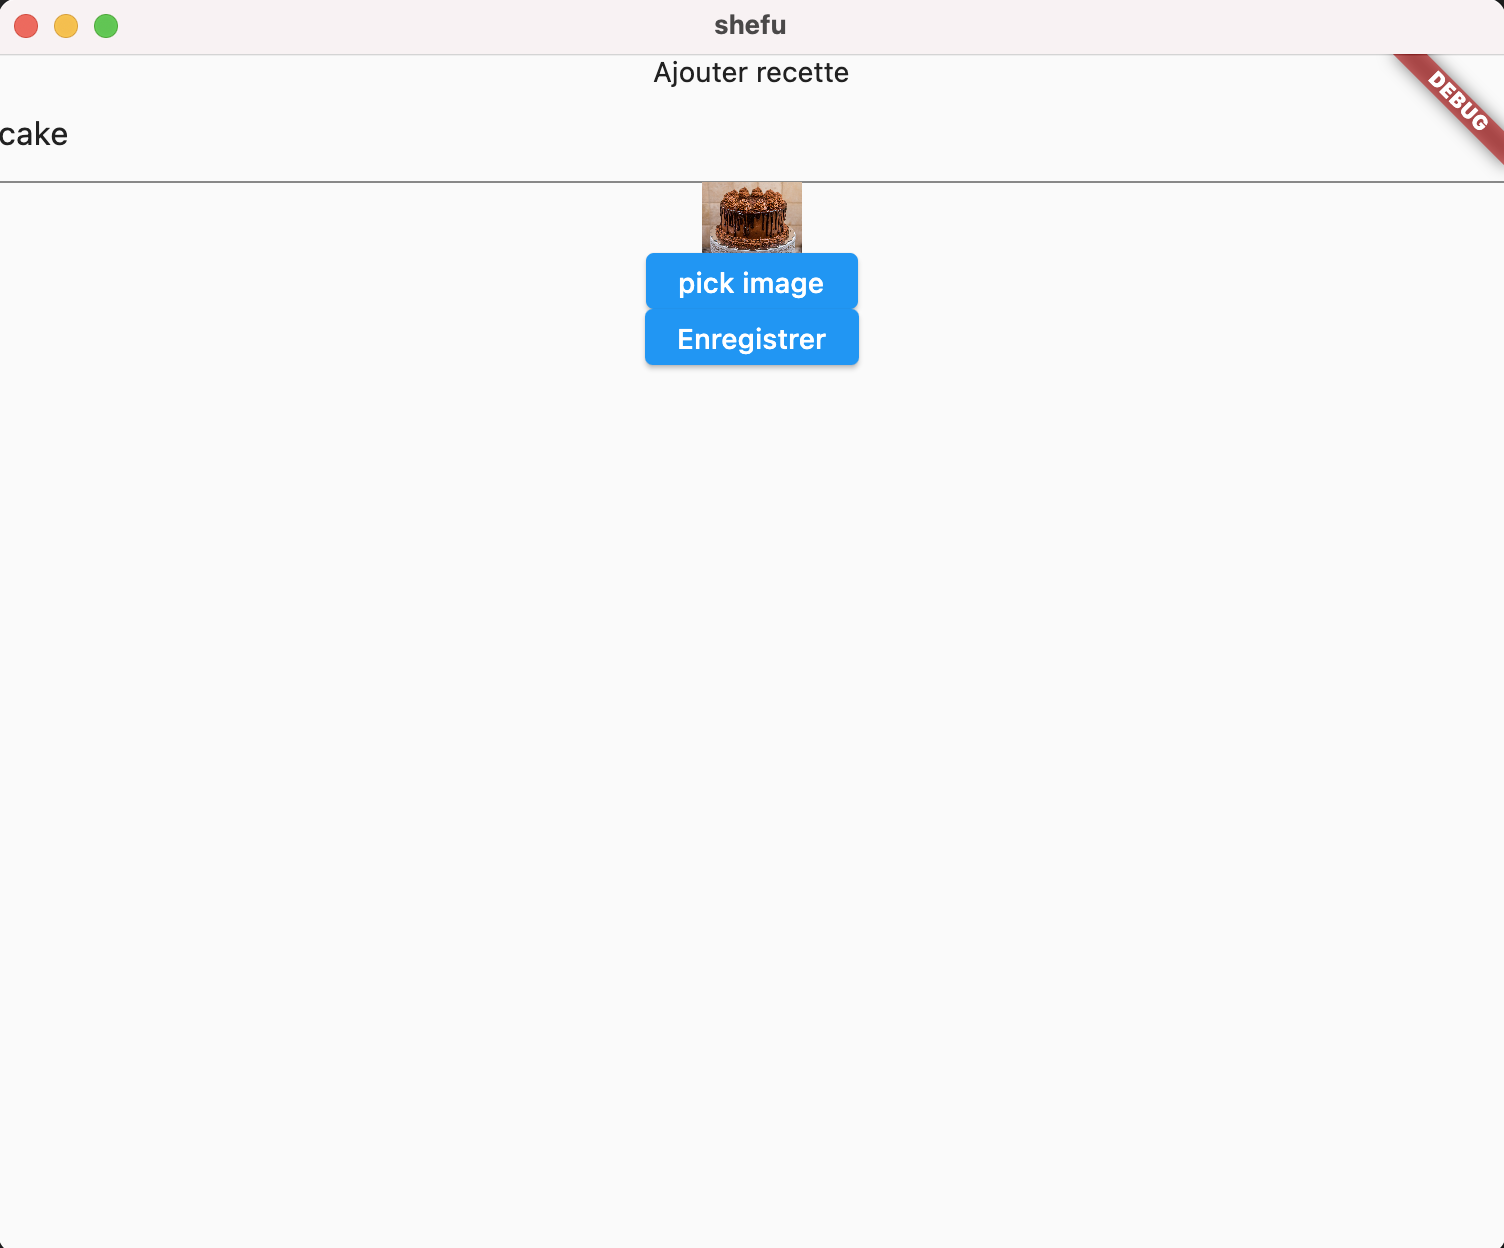
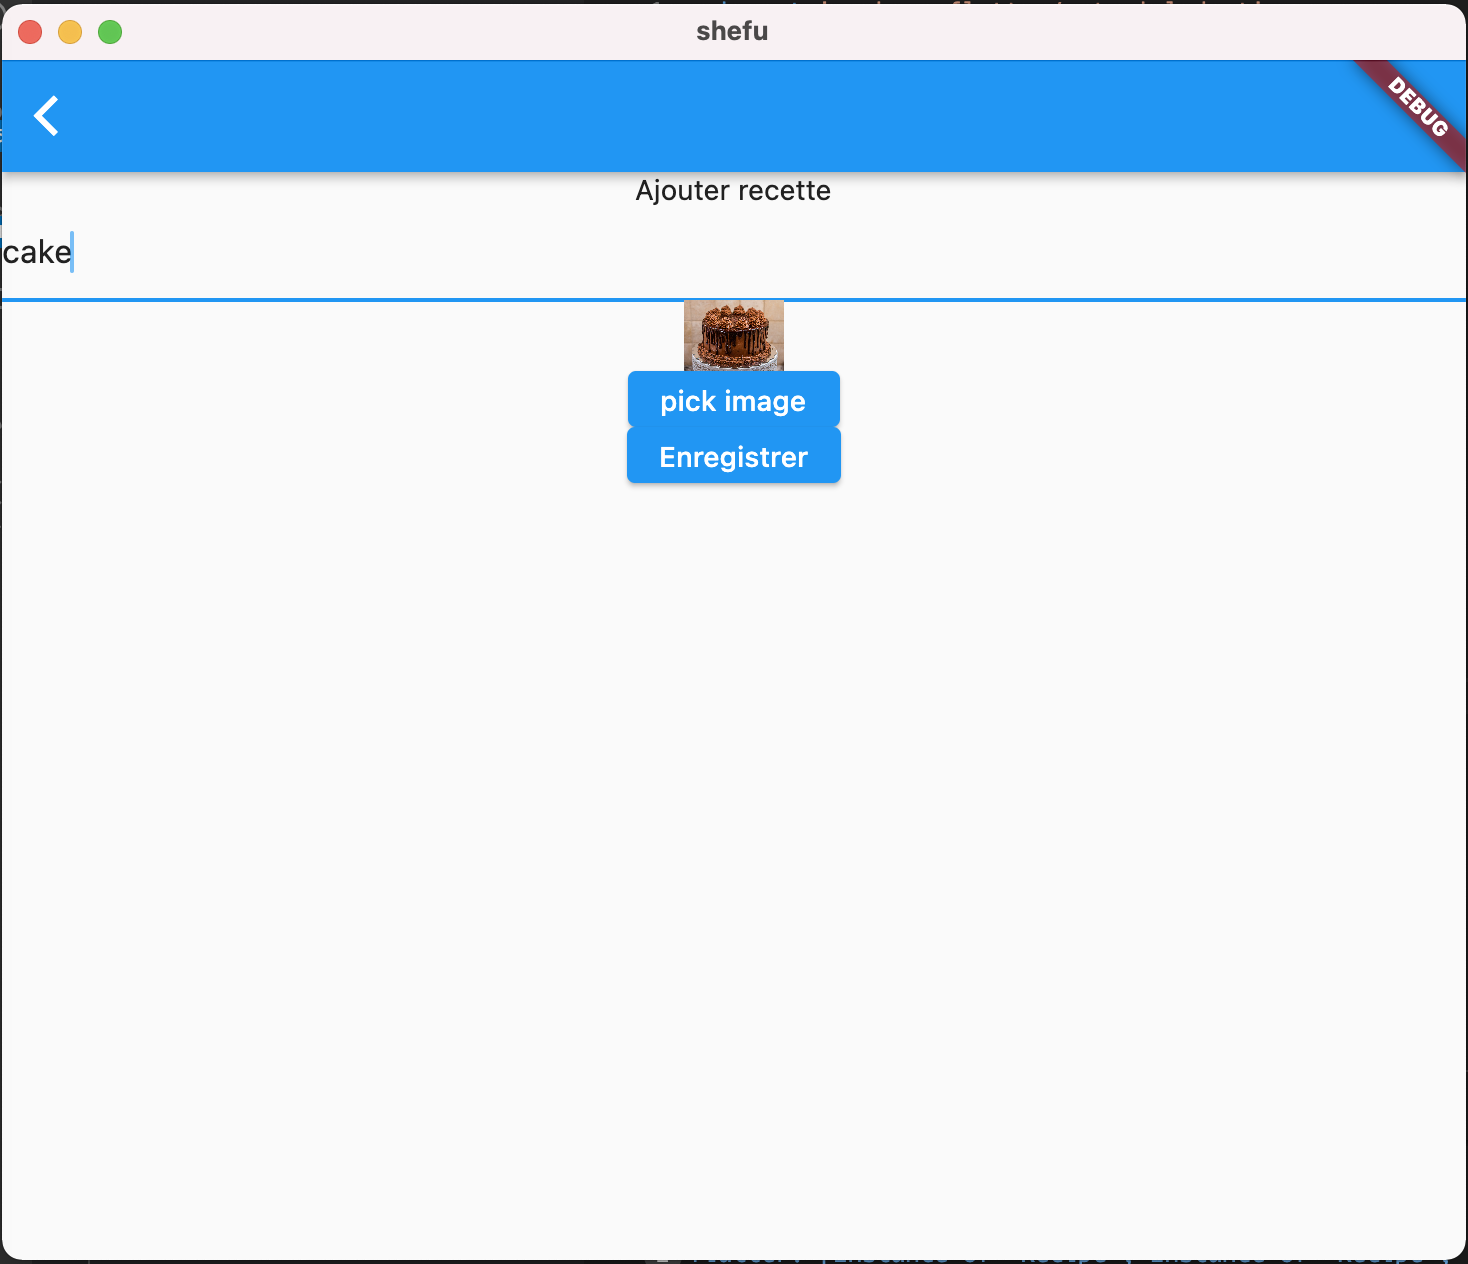
added search and display page; updated captures

Changed region(s): [[0.0, 0.0, 1.0, 0.4062], [0.0, 0.9688, 1.0, 1.0]]

diff --git a/lib/screens/home.dart b/lib/screens/home.dart
@@ -1,8 +1,6 @@
 import 'package:flutter/material.dart';
 import 'package:get/get.dart';
 import 'package:hive/hive.dart';
-import 'package:hive/hive.dart';
-import 'package:hive_flutter/hive_flutter.dart';
 import 'package:hive_flutter/hive_flutter.dart';
 import 'package:shefu/controller.dart';
 import 'package:shefu/screens/add_recipe.dart';
@@ -47,7 +45,6 @@ class Home extends StatelessWidget {
                     padding: EdgeInsets.only(right: 20.0),
                     child: GestureDetector(
                       onTap: () {
-                        //TODO  c.database.cleanUp();
                         Hive.box<Recipe>('recipes').clear();
                         c.update();
                       },
@@ -65,28 +62,48 @@ class Home extends StatelessWidget {
                     )),
               ],
             ),
-            body: FutureBuilder(
-                future: Hive.openBox<Recipe>('recipes'),
-                builder: (context, snapshot) {
-                  if (snapshot.connectionState == ConnectionState.done) {
-                    return ValueListenableBuilder(
-                      valueListenable: Hive.box<Recipe>('recipes').listenable(),
-                      builder: (context, Box<Recipe> box, _) {
-                        if (box.values.isEmpty) {
-                          return Text('data is empty');
-                        } else {
-                          List<Recipe> recipes = box.values.toList();
-                          print(recipes);
+            body: SingleChildScrollView(
+              child: Column(
+                children: [
+                  TextFormField(
+                    decoration: InputDecoration(hintText: "Recherche"),
+                    onChanged: (String value) {
+                      c.filter_string = value;
+                      c.update();
+                    },
+                  ),
+                  FutureBuilder(
+                      future: Hive.openBox<Recipe>('recipes'),
+                      builder: (context, snapshot) {
+                        if (snapshot.connectionState == ConnectionState.done) {
+                          return ValueListenableBuilder(
+                            valueListenable:
+                                Hive.box<Recipe>('recipes').listenable(),
+                            builder: (context, Box<Recipe> box, _) {
+                              if (box.values.isEmpty) {
+                                return Text('data is empty');
+                              } else {
+                                List<Recipe> recipes =
+                                    box.values.toList().where((e) {
+                                  return e.title.contains(c.filter_string);
+                                }).toList();
+                                //List<Recipe> recipes = box.values.toList();
+                                print(recipes);
 
-                          return RecipesGridView(recipes: recipes);
+                                return SizedBox(
+                                    height: 700,
+                                    child: RecipesGridView(recipes: recipes));
+                              }
+                              //return Container();
+                            },
+                          );
+                        } else {
+                          return Container();
                         }
-                        //return Container();
-                      },
-                    );
-                  } else {
-                    return Container();
-                  }
-                })));
+                      }),
+                ],
+              ),
+            )));
 
     // Center(
     //     child: ElevatedButton(

diff --git a/lib/screens/display_recipe.dart b/lib/screens/display_recipe.dart
@@ -1,18 +1,36 @@
+import 'dart:io';
+
 import 'package:flutter/material.dart';
 import 'package:get/get.dart';
+import 'package:shefu/models/recipes.dart';
 
 class DisplayRecipe extends StatelessWidget {
-  const DisplayRecipe({Key? key}) : super(key: key);
+  final Recipe recipe;
+
+  const DisplayRecipe({Key? key, required this.recipe}) : super(key: key);
 
   @override
   Widget build(BuildContext context) {
     return Scaffold(
-      body: Column(
-        children: [
-          ElevatedButton(child: Text('back'.tr), onPressed: () => Get.back()),
-          Text('detail'),
-        ],
-      ),
-    );
+        appBar: AppBar(
+          title: Text(recipe.title),
+        ),
+        body: SafeArea(
+          child: Column(
+            children: [
+              SizedBox(
+                  height: 250,
+                  width: double.infinity,
+                  child: Image.file(
+                    File(recipe.image_path),
+                    fit: BoxFit.scaleDown,
+                  )),
+              const SizedBox(
+                height: 5,
+              ),
+              Text('source: ${recipe.source}'),
+            ],
+          ),
+        ));
   }
 }

diff --git a/lib/widgets/recipe_card.dart b/lib/widgets/recipe_card.dart
@@ -12,16 +12,17 @@ class RecipeCard extends StatelessWidget {
   @override
   Widget build(BuildContext context) {
     return GestureDetector(
-      onTap: () => Get.to(() => DisplayRecipe()),
+      onTap: () => Get.to(() => DisplayRecipe(recipe: recipe)),
       child: Card(
         child: Row(
           crossAxisAlignment: CrossAxisAlignment.start,
           children: [
             ClipRRect(
               child: Image.file(
-                File(recipe.image_path!),
-                fit: BoxFit.scaleDown,
-                height: 50,
+                File(recipe.image_path),
+                fit: BoxFit.fitWidth,
+                width: 120,
+                // height: 50,
               ),
             ),
             const SizedBox(

diff --git a/lib/screens/add_recipe.dart b/lib/screens/add_recipe.dart
@@ -25,6 +25,7 @@ class AddRecipe extends StatelessWidget {
     return GetBuilder<Controller>(
         init: c,
         builder: (value) => Scaffold(
+              appBar: AppBar(),
               body: Column(
                 children: [
                   Center(child: Text('add recipe'.tr)),

diff --git a/lib/controller.dart b/lib/controller.dart
@@ -2,4 +2,5 @@ import 'package:get/get.dart';
 
 class Controller extends GetxController {
   var file_path = '';
+  String filter_string = '';
 }

diff --git a/README.md b/README.md
@@ -14,7 +14,8 @@ As a bonus, this should work on all platforms (ios,android,web,macos,linux and m
 This is a WIP! Use at your own risks!
 
 Sample:
-![home](https://github.com/lenios/shefu/blob/main/images/home.png?raw=true)
+![home](https://github.com/lenios/shefu/blob/main/images/search.png?raw=true)
+![add recipe](https://github.com/lenios/shefu/blob/main/images/display_recipe.png?raw=true)
 ![add recipe](https://github.com/lenios/shefu/blob/main/images/add_recipe.png?raw=true)
 
 
